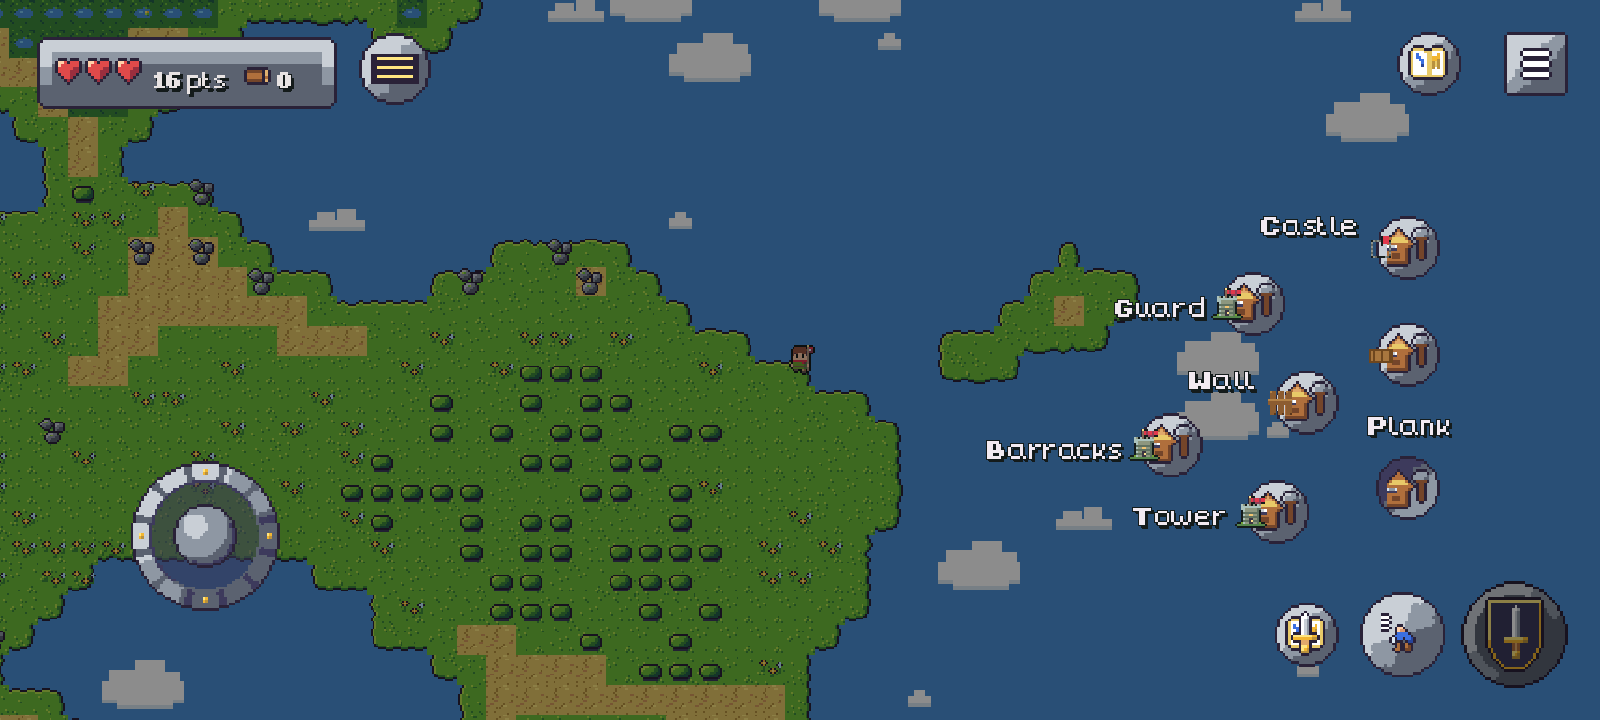
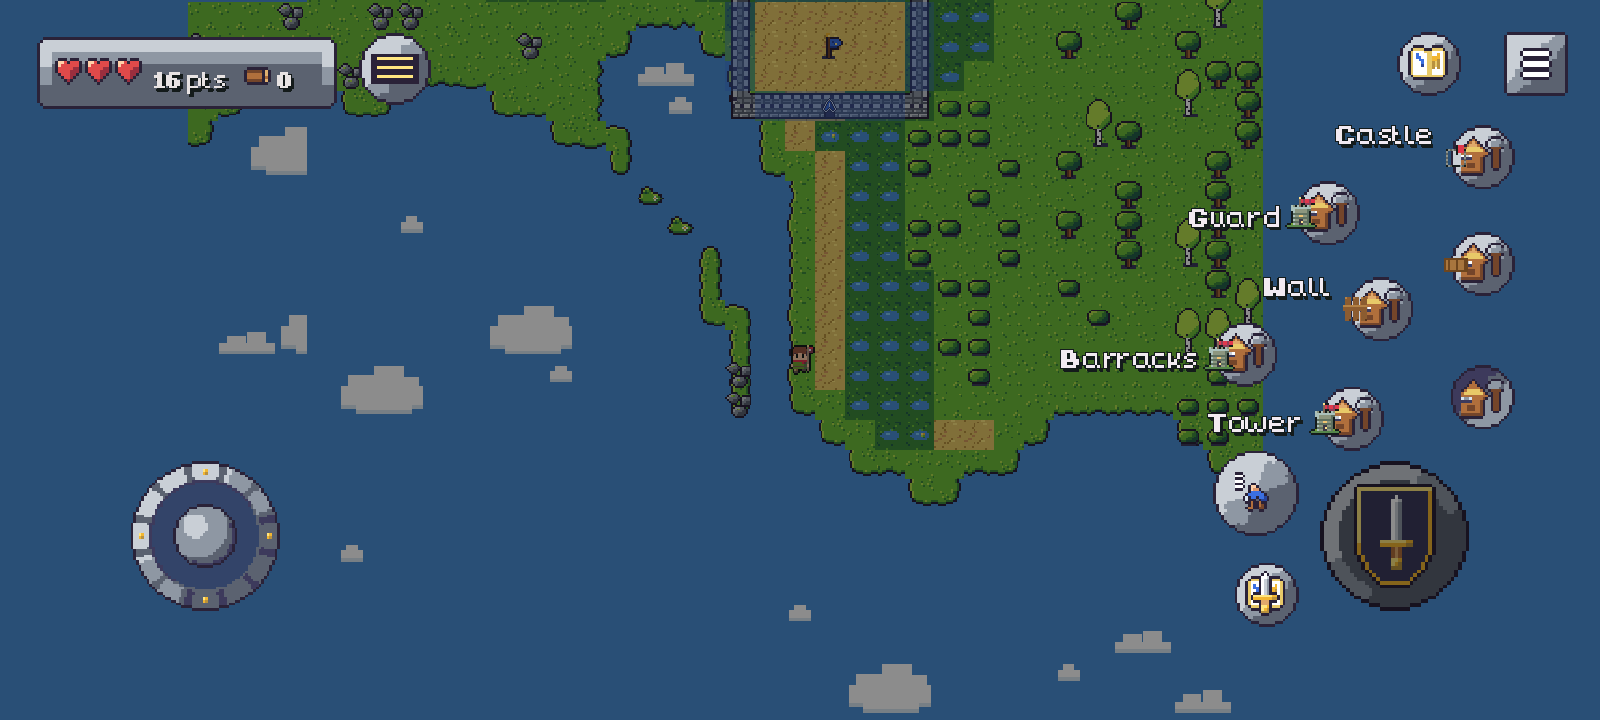
Mirror Attack to the joystick and keep the picker dimmer
Attack's centre is the horizontal reflection of the joystick across
the visible rect, and its art matches the joystick base. Run and the
tool wheel sit west of Attack; Buildings sits beside that cluster.
The open picker still dims the playfield. HUD save version 5 resets
older custom layouts. The round-HUD drive now checks this layout.

diff --git a/docs/architecture.md b/docs/architecture.md
@@ -20,7 +20,7 @@ Where each part of the game lives today, how data moves between the parts, and w
 - **Structures.** `Scripts/TileMap.gd` `place_structure` forwards to `Scripts/mechanics/structures/structure_placer.gd`, which reads `Scripts/mechanics/structures/structure.gd` files. Auto walls and tower rings are solved together with free-form palisades by `Scripts/mechanics/walls/wall_solver.gd` (`WallBuilder.resolve`). In play the starting castle, the buildable wooden tower (#273), extra castles (#527), and guard posts (#528) use it. `World/TowerCapture` (`Scripts/mechanics/conquest/tower_capture.gd`) treats each placement's team flag as a tower that players and mobs capture by standing next to it, and hands it over with `StructurePlacer.set_owner`. In multiplayer the host advances capture and sends owner and progress (#497). `World/TowerGuns` (`Scripts/mechanics/defense/tower_guns.gd`) is the host tick for those flags: a player-owned tower shoots the nearest other living player in range, then draws a short tracer (#37). `Scripts/TileMap.gd` `build_bridge` (which forwards to `Scripts/mechanics/bridges/bridge_builder.gd`) is only called from tests so far. What each build costs in wood is `Scripts/mechanics/building/build_costs.gd` (#272), whose `buy` spends through `Scripts/inventory.gd` `spend`. Shared placement is `Scripts/mechanics/building/construction_placer.gd` (#296): `can_place` / `cost` / `place` for each kind (plank, wooden tower, guard post, extra castle and free-form wall block), calling `buy` into `build_bridge`, `place_structure` or `place_wall_cells`. The build tools are `Scripts/mechanics/building/build_placement.gd` (#225 / #273 / #276): two labelled rings around Buildings, with Plank / Wall / Tower inside and Castle / Guard post / Barracks outside (#480), Cut when none is selected, H/V snap, footprint previews with rotation (#493), wall tip chain, green/red preview; `Interaction` wires it. Free-form walls live in `Scripts/mechanics/walls/wall_builder.gd` (#276). `World/Cities` (`Scripts/mechanics/conquest/cities.gd`) flood-fills from each flag through wall barriers to make a city (tint + minimap; capture transfers ownership). In multiplayer the host runs that fill and sends the list (#498). `World/LandScore` (`Scripts/mechanics/conquest/land_score.gd`) counts interior cells inside each owner's flag range and the host sets that count on `Points` (#279). A tap on a flag draws the range ring.
 - **Mobs.** The server runs `Scripts/mob_spawner.gd` `spawn_for_world` (types and sheets from `Scripts/mob_catalog.gd`) for the opening wave, then `plan_tick` to spawn and despawn around living players. Ambient caps follow the host clock (#559): night is twice the day cap, dusk and dawn ramp between, and a surplus despawns only past the despawn radius. The cycle off keeps the day caps. The scale is read from `DayNight.spawn_scale()` on a tick, the same call a joiner makes. Each mob runs `Scripts/mob.gd` on the server, and the other peers receive its state through the `MultiplayerSynchronizer` in `Mobs/mob.tscn`. A chasing mob is kept when it is far from every player. When raids are on, `World/RaidDirector` (`Scripts/mechanics/mobs/raid_director.gd`) sends a few idle mobs toward the nearest player city, or the nearest owned tower when none is in range; those mobs stay pinned and damage free-form walls in reach (#529). Raids stay off until the host turns them on. Kills and discoveries pay out through `Scripts/points.gd` and `Scripts/discovery_points.gd`, and `Scripts/score_hud.gd` shows them.
 - **Netcode.** ENet on UDP 9786 in `flagoria_main.gd`. The server owns the map params, mobs, health and points. A joining peer gets the full params, the host's tree and bush cuts and its placed structures through the `receive_map_params` RPC (cuts past the first 500 follow in `receive_join_cuts`, #354) and builds the same map locally. A tower or free-form wall placed after the join is a request to the host (`StructureRequests`, #497, #498), which writes it and sends it to every peer. A joining peer's starting castle is placed by the host outside the shared spawn and sent the same way (#278). Capture progress and cities ride with that join. A late joiner also receives the solved auto junction cells. A building the host generates after the match starts is a seed, size, style and cell (`GeneratedBuildings`, #26); every peer, including one that joins later, runs the same solver and paints that building on its own map layer. Players spawn through the `MultiplayerSpawner` under `World`. A cut during play is asked of the host (`Interaction.request_cut`, limited per peer by `CutRateLimit`, #355), which decides it and sends the stump to every peer (`apply_cut`) and the wood to the cutter; the host also decides regrowth and sends the plants that regrew in each tick to every peer in one message (`apply_regrow_cells`, #298, #353). The multiplayer tests are stress-run by `tools/stress_netcode.py`. The day/night clock (`DayNight`) is host-owned: clients and a late joiner are sent the host's elapsed time (#558).
-- **UI and menus.** `Scripts/MainMenu.gd` (main menu, Host/Join, volumes, mob rate, tower range/damage/cooldown, raid tunables) opens `map_admin_panel.tscn`. `number_pad.tscn` gives touch keys for number fields. In play: `ingame_menu.tscn`, `quit_prompt.tscn`, `Scripts/hearts_hud.gd`, `Scripts/hud_tool_row.gd` (Map beside Menu, Buildings inward in the right-thumb arc with a compact two-ring picker over a dimmed playfield, #480; tool wheel button beside Run until Customize HUD saves its slot, #574, #575), `Scripts/tool_wheel.gd` (hold to arm sword, bow or chop; the arc stays on screen), `Scripts/hud_layout.gd` (per-device touch control layout in `user://`, #492, #575), `Scripts/minimap_panel.gd` (draws `Scripts/explored_map.gd`; starts closed; header collapse and maximize), `Scripts/parchment_map.gd` (the full parchment sheet) and `Scripts/map_wood_button.gd` (those wood controls). The theme is `art/ui/main_menu_theme.tres`.
+- **UI and menus.** `Scripts/MainMenu.gd` (main menu, Host/Join, volumes, mob rate, tower range/damage/cooldown, raid tunables) opens `map_admin_panel.tscn`. `number_pad.tscn` gives touch keys for number fields. In play: `ingame_menu.tscn`, `quit_prompt.tscn`, `Scripts/hearts_hud.gd`, `Scripts/hud_tool_row.gd` (Map beside Menu, Attack mirrored from the joystick, Run and the tool wheel around Attack, and Buildings beside that cluster with a two-ring picker over a dimmed playfield, #480, #574, #575), `Scripts/tool_wheel.gd` (hold to arm sword, bow or chop; the arc stays on screen), `Scripts/hud_layout.gd` (per-device touch control layout in `user://`, #492, #575), `Scripts/minimap_panel.gd` (draws `Scripts/explored_map.gd`; starts closed; header collapse and maximize), `Scripts/parchment_map.gd` (the full parchment sheet) and `Scripts/map_wood_button.gd` (those wood controls). The theme is `art/ui/main_menu_theme.tres`.
 - **Saves.** `Scripts/map_save.gd` reads and writes versioned saves in `user://saves/` (gzip of one JSON document; older plain JSON still loads), written by the in-game menu's Save through `MapGen.save_world`. Each match has its own file: the main menu lists them and loads one, and Save replaces that file. `Scripts/world_save.gd` is one save in memory: the generation inputs plus the world's changes. The dedicated server loads one with `--params`. The day/night elapsed time is the `clock` object (#558). See `docs/world-saves.md`.
 - **Audio.** Buses are in `default_bus_layout.tres` and volumes in `Scripts/audio_settings.gd`. Music comes from `Scripts/music_player.gd` and UI sounds from `Scripts/ui_sfx.gd`. Per-instance sounds come from `Scripts/combat_sfx.gd`, `Scripts/footsteps.gd` and `Scripts/mob_sfx.gd`, with files in `art/audio/` (made by `tools/audio/`). See `docs/audio.md`.
 

diff --git a/.cursor/skills/verify-flagoria/features/hud-round-buttons.md b/.cursor/skills/verify-flagoria/features/hud-round-buttons.md
@@ -2,19 +2,19 @@
 
 Drive: drives/hud_round_buttons.gd
 
-The match starts with the minimap and build picker closed. Map sits left of Menu on the top edge. Buildings sits inward in the right-thumb arc. It opens two compact rings of labelled discs over the dimmed playfield. From the top, the inner ring holds Plank, Wall and Tower, and the outer ring holds Castle, Guard post and Barracks. The picker follows Buildings in a custom layout. Tap Buildings again, pick a tool or tap outside to close the picker. The selected tool keeps its ring when reopened. The tool wheel sits beside Run.
+The match starts with the minimap and build picker closed. Map sits left of Menu on the top edge. Attack mirrors the joystick and matches its base diameter. Run and the tool wheel sit around Attack. Buildings sits beside that cluster and opens two compact rings over the dimmed playfield. Captions appear where they fit. From the top, the inner ring holds Plank, Wall and Tower, and the outer ring holds Castle, Guard post and Barracks. The picker follows Buildings in a custom layout. Tap Buildings again, pick a tool or tap outside to close the picker. The selected tool keeps its ring when reopened.
 
 ## Sub-features
 
-- `hud-round-arc` Map sits beside Menu and Buildings sits inward in the right-thumb arc, with clear space around the tap targets (`-- test_hud_no_overlap` and live drive). Run is a smaller neighbour of the attack button. `CanvasLayer1/MapReopen` is absent (`-- test_hud_round_buttons`).
-- `hud-build-list` Buildings opens the picker and a second tap or an outside tap closes it. Each disc has a tool icon and label. Picking a building selects that tool, collapses the list and keeps the gold ring (`-- test_hud_round_buttons`, `-- test_build_picker_switches_tool`).
+- `hud-round-arc` Map sits beside Menu, and Buildings sits beside the Attack, Run and tool wheel cluster, with clear space around the tap targets (`-- test_hud_no_overlap` and live drive). Run is a smaller neighbour of the attack button. `CanvasLayer1/MapReopen` is absent (`-- test_hud_round_buttons`).
+- `hud-build-list` Buildings opens the picker and a second tap or an outside tap closes it. Each disc has a tool icon, with labels shown where space permits. Picking a building selects that tool, collapses the list and keeps the gold ring (`-- test_hud_round_buttons`, `-- test_build_picker_switches_tool`).
 - `hud-minimap-closed` the wood panel stays hidden until Map opens it, and a second press closes it. While it is open, every arc button sits outside the panel. Selecting chop keeps a picked build tool, and sword clears it back to Cut (`-- test_hud_round_buttons`).
 - `hud-no-overlap` All visible tap targets stay inside the viewport and clear of one another at phone, desktop and tablet sizes. The test opens Buildings, Map, Scores and the tool wheel, and repeats the default and Buildings states with a saved custom layout (`-- test_hud_no_overlap`).
 - `hud-layout-golden` Stock HUD hit rectangles match the saved layout at four window sizes for the default, Buildings, Map and Scores states (`-- test_hud_layout_golden`).
 
 ## How to get to it (user POV)
 
-- Host a world. Buildings sits inward in the right-thumb arc and the minimap is closed. Tap Buildings to show Plank, Tower, Castle, Guard post, Barracks and Wall, and tap Map to open the panel. Key 3 arms chop and key 1 returns to sword. Run is the small button beside attack.
+- Host a world. Buildings sits beside the right-thumb cluster and the minimap is closed. Tap Buildings to show Plank, Tower, Castle, Guard post, Barracks and Wall, and tap Map to open the panel. Key 3 arms chop and key 1 returns to sword. Run is the small button beside attack.
 
 ## Driving it with verify-flagoria helpers
 
@@ -22,7 +22,7 @@ Preconditions: `doctor.sh` exits `0`. Time cost: `test_hud_round_buttons` is abo
 
 - **Run.** `./tools/verify.sh`, or `godot --headless --path . --script res://tests/run_tests.gd -- --only=hud_round_buttons,hud_no_overlap`.
 - **Proof.** `PASS test_hud_round_buttons` and `PASS test_hud_no_overlap`.
-- **Drive (live).** `bin/launch.sh drives/hud_round_buttons.gd --seed 49 --display`. Snapshots: `match-start` (minimap closed, list collapsed), `building-list` (two labelled rings above and inward from Buildings, clear of Attack, with the playfield dimmed), `building-selected` (Plank's ring), `minimap` (panel open, arc clear of it), `interact` (chop icon on the tool button, arc still clear).
+- **Drive (live).** `bin/launch.sh drives/hud_round_buttons.gd --seed 49 --display`. Snapshots: `match-start` (minimap closed, list collapsed), `building-list` (two rings above and inward from Buildings, clear of Attack, with the playfield dimmed), `building-selected` (Plank's ring), `minimap` (panel open, arc clear of it), `interact` (chop icon on the tool button, arc still clear).
 
 ## Gotchas
 

diff --git a/docs/hud_direction_c.md b/docs/hud_direction_c.md
@@ -98,7 +98,7 @@ All numbers are UI pixels of the **480×270** viewport (`CanvasLayer1`).
 |-|-|-|-|-|
 | Mode, map, build, menu, scores | 24×24 | **32×32** | yes | 32 art = 128 px ≈ 51 dp |
 | Weapon (bow / sword), run | 32×32 | **36×36** | yes | 36 art = 144 px ≈ 58 dp |
-| Attack | 40×40 | **48×48** (`CircleShape2D` radius 24, unchanged) | yes | already above 48 dp |
+| Attack | 56×56 (scaled from 40×40) | **56×56** at default size | yes | above 48 dp |
 | Joystick | base 56×56, knob 24×24 | start radius **28** (the whole base); knob travel 20 | yes | unchanged |
 
 Font for the plate: the project's `NormalFont.ttf` at size **8**, not the theme's Button size 16.
@@ -131,12 +131,12 @@ Map toggles the minimap.
 
 | Node | Art box (x, y, w, h) | Centre | Hit |
 |-|-|-|-|
-| Attack | (428, 218, 40, 40) | (448, 238) | circle, radius 24, centred |
-| Run | (390, 222, 32, 32) | (406, 238) | 36×36, centred |
-| Tool wheel | (358, 226, 24, 24) | (370, 238) | 32×32, centred |
-| Build | (396, 171, 24, 24) | (408, 183) | 32×32, centred |
+| Attack | (375, 173, 56, 56) | (403, 201) | circle, radius 28, centred |
+| Run | (335, 169, 32, 32) | (351, 185) | 36×36, centred |
+| Tool wheel | (343, 211, 24, 24) | (355, 223) | 32×32, centred |
+| Build | (424, 136.5, 24, 24) | (436, 148.5) | 32×32, centred |
 
-Attack, Run and the tool wheel follow the bottom-right edge on expanded canvases. Build follows the same canvas offset from its slot farther inward in the right-thumb arc and opens two compact rings over a dimmed playfield toward the middle of the screen. The inner ring holds Plank, Wall and Tower at a radius of 50 px. The outer ring holds Castle, Guard post and Barracks at 90 px. The picker follows a customized Build button and opens rightward from the left half, with a mirrored or wider layout if controls obstruct it. Tap Build again, choose an option or tap outside to close it.
+Attack mirrors the joystick across the visible canvas and matches its base diameter. Run and the tool wheel sit west of Attack and move with it as the canvas expands. Build sits above-right of Attack and opens two compact rings over a dimmed playfield toward the middle of the screen. The inner ring holds Plank, Wall and Tower at a radius of 50 px. The outer ring holds Castle, Guard post and Barracks at 90 px. The picker follows a customized Build button and opens rightward from the left half, with a mirrored or wider layout if controls obstruct it. Tap Build again, choose an option or tap outside to close it.
 
 ### 3.4 Joystick
 

diff --git a/.cursor/skills/verify-flagoria/features/hud-customize.md b/.cursor/skills/verify-flagoria/features/hud-customize.md
@@ -2,7 +2,7 @@
 
 Drive: drives/hud_customize.gd
 
-The in-game menu has a Customize HUD entry. It opens an edit mode over the live touch controls: joystick, attack, run, the tool wheel, Buildings, Map and Scores. The wheel button's default slot is left of Run, by the right thumb. Layout save version 4 resets older layouts to the defaults, with Map beside Menu and Buildings inward in the right-thumb arc. Solo play pauses while editing; in multiplayer only the local layout changes. Drag moves a control; the size slider or a pinch resizes it between today’s size and 1.75×. Controls stay on screen and cannot overlap. The two-ring picker follows Buildings and opens inward. If obstructed, it tries the other side, then increases both radii together. In cramped layouts, all six discs stay visible and captions can be hidden to fit. The open picker dims the playfield during play. Save writes the layout to user settings on this device (not in world saves). Reset restores the default layout, including the thumb-side wheel button. Positions are stored relative to screen size.
+The in-game menu has a Customize HUD entry. It opens an edit mode over the live touch controls: joystick, attack, run, the tool wheel, Buildings, Map and Scores. Layout save version 5 resets older layouts to the defaults. Map sits beside Menu, Attack mirrors the joystick, Run and the tool wheel sit around Attack, and Buildings sits beside that cluster. Solo play pauses while editing; in multiplayer only the local layout changes. Drag moves a control; the size slider or a pinch resizes it between today’s size and 1.75×. Controls stay on screen and cannot overlap. The two-ring picker follows Buildings and opens inward. If obstructed, it tries the other side, then increases both radii together. In cramped layouts, all six discs stay visible and captions can be hidden to fit. The open picker dims the playfield during play. Save writes the layout to user settings on this device (not in world saves). Reset restores the default layout, including the thumb-side wheel button. Positions are stored relative to screen size.
 
 ## Sub-features
 

diff --git a/.cursor/skills/verify-flagoria/features/README.md b/.cursor/skills/verify-flagoria/features/README.md
@@ -93,7 +93,7 @@ Maintained recipes for proving user-facing and CI-facing behavior. Read this ind
 - [Points scoreboard](./points-scoreboard.md) — every connected player's total, highest first, from the score row toggle (#509).
 - [Touch controls](./touch-controls.md) — joystick hold, Castle Stone attack button and stick, number pad and letter keyboard (`-` key; `Del` and `-` edit a selected value).
 - [Run control](./run-control.md) — hold or tap Run (or hold Shift) to walk faster; chop reach, the sword and the joystick direction stay put (#449).
-- [Round HUD buttons](./hud-round-buttons.md) — minimap closed at match start; Map beside Menu, Buildings inward in the right-thumb arc, labelled build tools in two compact rings over a dimmed playfield, map panel clear of the controls, Run beside attack (#480).
+- [Round HUD buttons](./hud-round-buttons.md) — minimap closed at match start; Map beside Menu, Attack mirrored from the joystick, Run and the tool wheel around Attack, Buildings beside the cluster with two picker rings over a dimmed playfield, map panel clear of the controls (#480).
 - [Customize HUD layout](./hud-customize.md) — in-game menu edit mode; drag and resize touch controls, including the tool wheel; per-device user settings (#492, #575).
 - [Structures (data format)](./structures.md) — `flagoria-structure 1` text files.
 - [Structure placement](./structure-placement.md) — place `castle.txt`, `tower_wood.txt`, `guard_post.txt` or `barracks.txt` at an anchor cell; refusal reasons, kept on redraw, a placed stump does not regrow; the host places the starting castle directly, clients use `StructureRequests`, joiners receive the host list.
